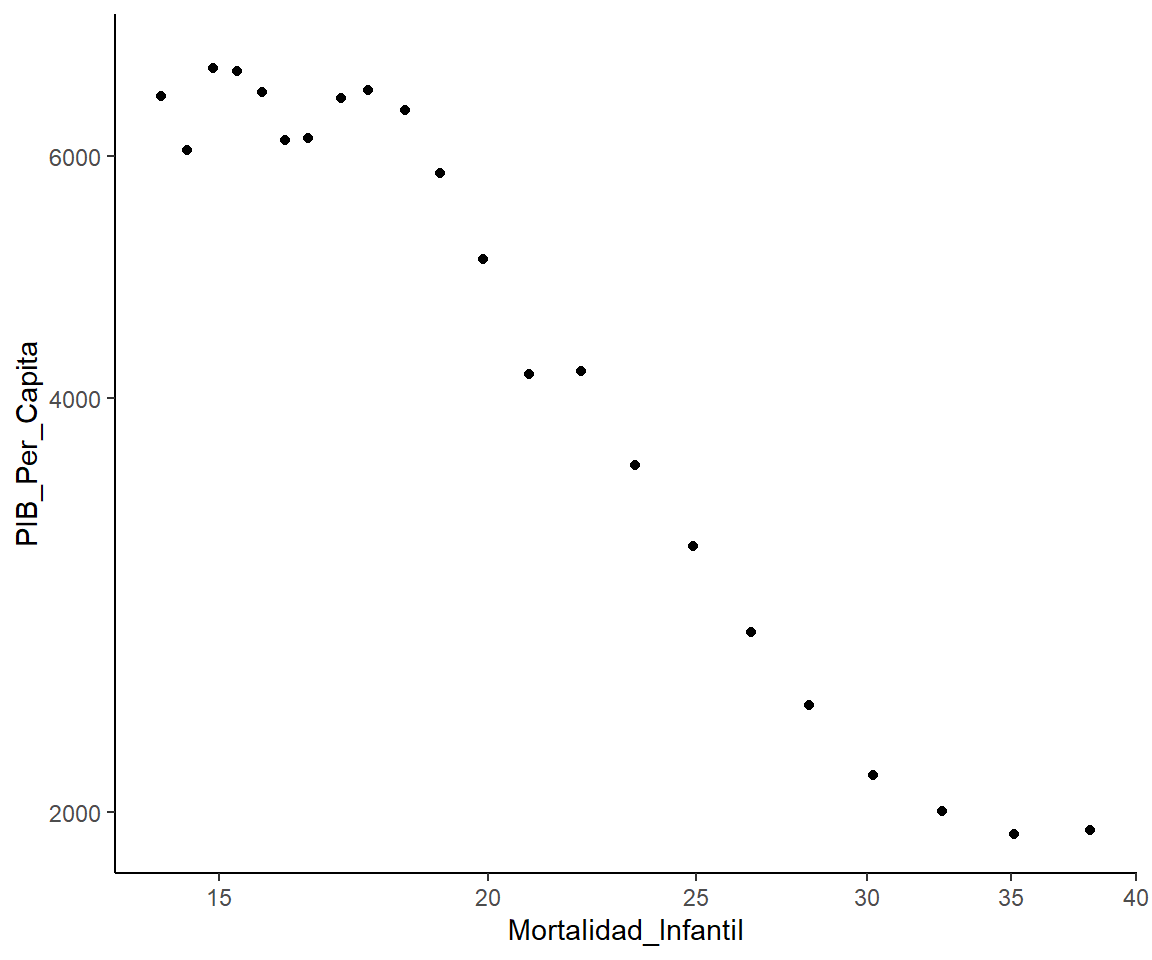
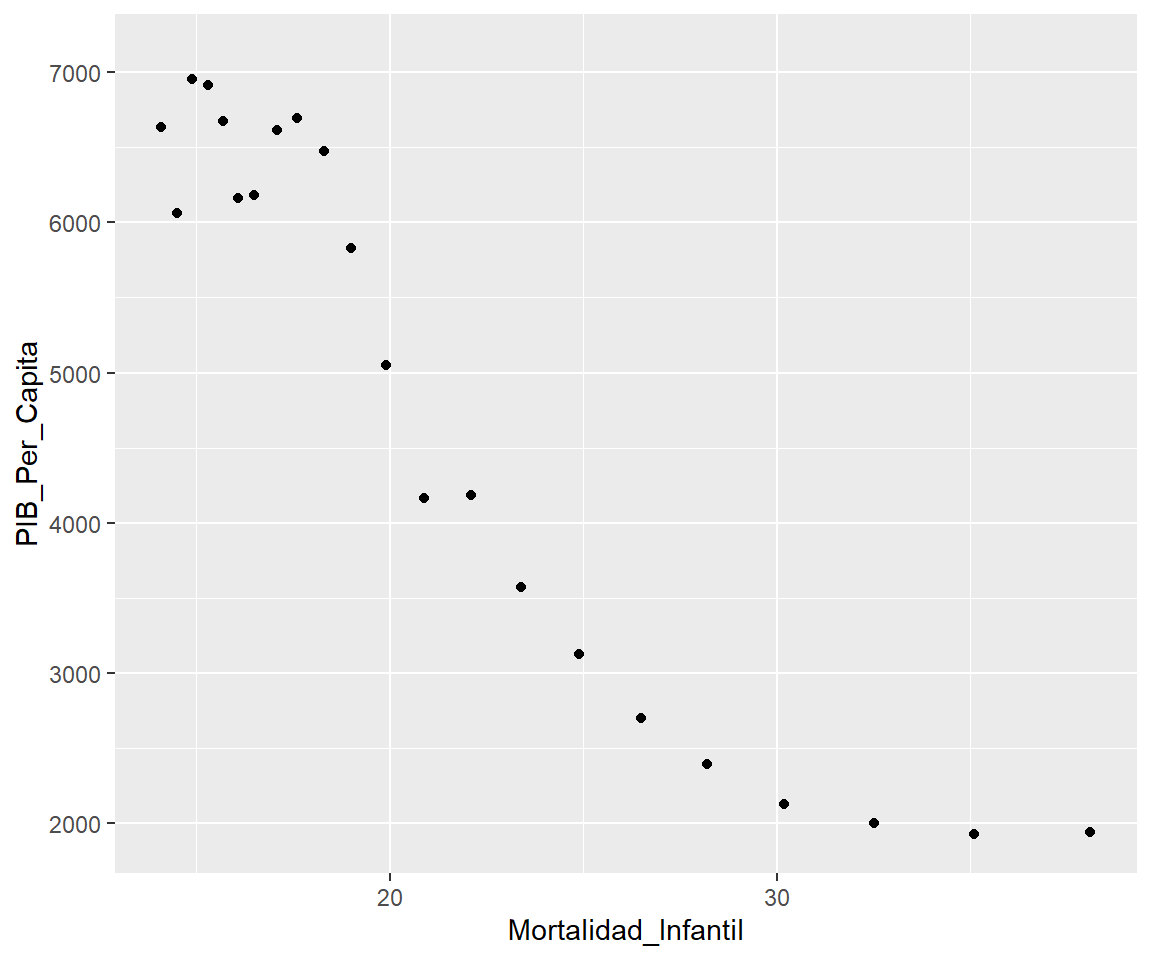
commitchanges6

diff --git a/docs/index.html b/docs/index.html
@@ -407,30 +407,30 @@ Joel Belsasar
 <nav role="doc-toc"> 
 <h2 id="toc-title">Table of contents</h2>
 <ul>
-<li><a href="#/herramientas-para-la-ciencia-de-datos" id="/toc-herramientas-para-la-ciencia-de-datos">Herramientas para la ciencia de datos</a></li>
-<li><a href="#/visualizar-datos" id="/toc-visualizar-datos">Visualizar… datos</a></li>
-<li><a href="#/entonces-por-qué-usar-r" id="/toc-entonces-por-qué-usar-r">Entonces, ¿por qué usar R?</a></li>
-<li><a href="#/ggplot" id="/toc-ggplot"><code>ggplot()</code></a></li>
+<li><a href="#/herramientas-para-la-ciencia-de-datos" id="/toc-herramientas-para-la-ciencia-de-datos"><b style="color : #E18B2A;">Herramientas para la ciencia de datos</b></a></li>
+<li><a href="#/visualizar-datos" id="/toc-visualizar-datos"><b style="color : #E18B2A;">Visualizar… datos</b></a></li>
+<li><a href="#/entonces-por-qué-usar-r" id="/toc-entonces-por-qué-usar-r"><b style="color : #E18B2A;">Entonces, ¿por qué usar R?</b></a></li>
+<li><a href="#/ggplot" id="/toc-ggplot"><b style="color : #E18B2A;"><code>ggplot()</code></b></a></li>
 <li><a href="#/la-gramática-en-capas-de-gráficos-de-wickham-2009" id="/toc-la-gramática-en-capas-de-gráficos-de-wickham-2009">La gramática en capas de gráficos de Wickham (2009)</a></li>
-<li><a href="#/las-capas-básicas" id="/toc-las-capas-básicas">Las capas básicas</a></li>
-<li><a href="#/dataset-worldbank" id="/toc-dataset-worldbank">Dataset: <code>WorldBank</code></a></li>
-<li><a href="#/capa-data" id="/toc-capa-data">Capa: data</a></li>
-<li><a href="#/capa-aesthetics" id="/toc-capa-aesthetics">Capa: Aesthetics</a></li>
-<li><a href="#/capa-geométrica-geom_" id="/toc-capa-geométrica-geom_">Capa: Geométrica <code>geom_</code></a></li>
-<li><a href="#/capas-coordinates-and-themes" id="/toc-capas-coordinates-and-themes">Capas: Coordinates, and themes</a></li>
-<li><a href="#/en-suma-en-un-solo-fragmento-de-código" id="/toc-en-suma-en-un-solo-fragmento-de-código">En suma, en un solo fragmento de código:</a></li>
-<li><a href="#/en-suma-en-un-solo-fragmento-de-código-1" id="/toc-en-suma-en-un-solo-fragmento-de-código-1">En suma, en un solo fragmento de código:</a></li>
+<li><a href="#/las-capas-básicas" id="/toc-las-capas-básicas"><b style="color : #E18B2A;">Las capas básicas</b></a></li>
+<li><a href="#/dataset-worldbank" id="/toc-dataset-worldbank"><b style="color : #E18B2A;">Dataset: <code>WorldBank</code></b></a></li>
+<li><a href="#/capa-data" id="/toc-capa-data"><b style="color : #E18B2A;">Capa: data</b></a></li>
+<li><a href="#/capa-aesthetics" id="/toc-capa-aesthetics"><b style="color : #E18B2A;">Capa: Aesthetics</b></a></li>
+<li><a href="#/capa-geométrica-geom_" id="/toc-capa-geométrica-geom_"><b style="color : #E18B2A;">Capa: Geométrica <code>geom_</code></b></a></li>
+<li><a href="#/capas-coordinates-and-themes" id="/toc-capas-coordinates-and-themes"><b style="color : #E18B2A;">Capas: Coordinates, and themes</b></a></li>
+<li><a href="#/en-suma-en-un-solo-fragmento-de-código" id="/toc-en-suma-en-un-solo-fragmento-de-código"><b style="color : #E18B2A;">En suma, en un solo fragmento de código:</b></a></li>
+<li><a href="#/en-suma-en-un-solo-fragmento-de-código-1" id="/toc-en-suma-en-un-solo-fragmento-de-código-1"><b style="color : #E18B2A;">En suma, en un solo fragmento de código: </b></a></li>
 <li><a href="#/bibliografía" id="/toc-bibliografía">Bibliografía:</a></li>
 <li><a href="#/más-recursos" id="/toc-más-recursos">Más recursos:</a></li>
 </ul>
 </nav>
 </section>
 <section id="herramientas-para-la-ciencia-de-datos" class="slide level2">
-<h2>Herramientas para la ciencia de datos</h2>
+<h2><b style="color : #E18B2A;">Herramientas para la ciencia de datos</b></h2>
 
 <img data-src="./diagrams/whole-game.png" alt="A diagram displaying the data science cycle: Import -> Tidy -> Understand  (which has the phases Transform -> Visualize -> Model in a cycle) -> Communicate. Surrounding all of these is Program Import, Tidy, Transform, and Visualize is highlighted." width="535" class="r-stretch quarto-figure-center"><p class="caption">Figure&nbsp;1: <a href="https://r4ds.hadley.nz/whole-game#fig-ds-whole-game">Whole game: Visualización</a></p></section>
 <section id="visualizar-datos" class="slide level2">
-<h2>Visualizar… datos</h2>
+<h2><b style="color : #E18B2A;">Visualizar… datos</b></h2>
 <p>Una visualización de datos efectiva brinda a los usuarios medios intuitivos para…</p>
 <ul>
 <li><p>explorar y analizar datos de manera interactiva, permitiéndoles</p></li>
@@ -444,7 +444,7 @@ Joel Belsasar
 </ul>
 </section>
 <section id="entonces-por-qué-usar-r" class="slide level2">
-<h2>Entonces, ¿por qué usar R?</h2>
+<h2><b style="color : #E18B2A;">Entonces, ¿por qué usar R?</b></h2>
 <p><strong>Reproducibilidad</strong></p>
 <ul>
 <li>Puedes anotar el scrpit, agregar información extra como títulos, etiquetas y leyendas, y mantener el código de todas las versiones de tus gráficos para saber siempre cómo se crearon.</li>
@@ -459,19 +459,20 @@ Joel Belsasar
 </ul>
 </section>
 <section id="ggplot" class="slide level2">
-<h2><code>ggplot()</code></h2>
+<h2><b style="color : #E18B2A;"><code>ggplot()</code></b></h2>
 <ul>
 <li><p>La lógica que propone ggplot una de los paquetes de la familia tidyverse() es la estratificación</p></li>
 <li><p>Si existe un consenso en R, es que ggplot es la librería para graficar.</p></li>
 <li><p>En ggplot una capa se encarga de renderizar cada uno de los elementos visuales. Las capas forman una gramática o un conjunto de reglas mediante las cuales R creará los artefactos visuales.</p></li>
 </ul>
-</section>
+
+<img data-src="./diagrams/ggplot2.png" width="896" class="r-stretch quarto-figure-center"></section>
 <section id="la-gramática-en-capas-de-gráficos-de-wickham-2009" class="slide level2">
 <h2>La gramática en capas de gráficos de <a href="https://vita.had.co.nz/papers/layered-grammar.pdf">Wickham (2009)</a></h2>
 
 <img data-src="./diagrams/gglayers.png" alt="A diagram displaying the data science cycle" width="683" class="r-stretch quarto-figure-center"><p class="caption">Figure&nbsp;2: Adaptado en <a href="https://github.com/QCBSRworkshops/workshop03">Introduction to data visualisation</a></p></section>
 <section id="las-capas-básicas" class="slide level2">
-<h2>Las capas básicas</h2>
+<h2><b style="color : #E18B2A;">Las capas básicas</b></h2>
 <p><strong>1. La data:</strong></p>
 <ul>
 <li>Los datos que queremos representar en la grafica deben estar ordenados, es decir, cada fila debe representar una observación y cada columna debe representar una variable.</li>
@@ -484,62 +485,75 @@ Joel Belsasar
 <span id="cb1-2"><a href="#cb1-2"></a>geom_(mapping = aes(x, y), ...) + ...</span></code><button title="Copy to Clipboard" class="code-copy-button"><i class="bi"></i></button></pre></div>
 </section>
 <section id="dataset-worldbank" class="slide level2">
-<h2>Dataset: <code>WorldBank</code></h2>
+<h2><b style="color : #E18B2A;">Dataset: <code>WorldBank</code></b></h2>
 <ul>
 <li><p>Utilicemos los datos económicos y sociales de diferentes países proporcionados por el Banco Mundial.</p></li>
 <li><p>Preprocesamiento de los datos:</p></li>
 </ul>
+<div class="sourceCode" id="cb2"><pre class="sourceCode numberSource markdown number-lines code-with-copy"><code class="sourceCode markdown"><span id="cb2-1"><a href="#cb2-1"></a>pacman::p_load(WDI, # Data World Bank</span>
+<span id="cb2-2"><a href="#cb2-2"></a>               ggplot2</span>
+<span id="cb2-3"><a href="#cb2-3"></a>               )</span>
+<span id="cb2-4"><a href="#cb2-4"></a><span class="fu"># Buscar indicadores relacionados con el PIB per cápita:</span></span>
+<span id="cb2-5"><a href="#cb2-5"></a>indicadores &lt;- WDIsearch("GDP per capita")</span>
+<span id="cb2-6"><a href="#cb2-6"></a></span>
+<span id="cb2-7"><a href="#cb2-7"></a>dataf &lt;- WDI(country = "PE", indicator = c("NY.GDP.PCAP.CD", # PBI</span>
+<span id="cb2-8"><a href="#cb2-8"></a>                                             "SH.DYN.MORT"), # Mortalidad</span>
+<span id="cb2-9"><a href="#cb2-9"></a>             start = 2000, end = 2022)</span>
+<span id="cb2-10"><a href="#cb2-10"></a>dataf &lt;- data.frame(dataf)</span>
+<span id="cb2-11"><a href="#cb2-11"></a></span>
+<span id="cb2-12"><a href="#cb2-12"></a><span class="fu"># Renombrar las variables del dataframe</span></span>
+<span id="cb2-13"><a href="#cb2-13"></a>colnames(dataf)<span class="co">[</span><span class="ot">5:6</span><span class="co">]</span> &lt;- c("PIB_Per_Capita", "Mortalidad_Infantil")</span></code><button title="Copy to Clipboard" class="code-copy-button"><i class="bi"></i></button></pre></div>
 </section>
 <section id="capa-data" class="slide level2">
-<h2>Capa: data</h2>
-<div class="sourceCode" id="cb2"><pre class="sourceCode numberSource markdown number-lines code-with-copy"><code class="sourceCode markdown"><span id="cb2-1"><a href="#cb2-1"></a>ggplot(data = dataf)</span></code><button title="Copy to Clipboard" class="code-copy-button"><i class="bi"></i></button></pre></div>
+<h2><b style="color : #E18B2A;">Capa: data</b></h2>
+<div class="sourceCode" id="cb3"><pre class="sourceCode numberSource markdown number-lines code-with-copy"><code class="sourceCode markdown"><span id="cb3-1"><a href="#cb3-1"></a>ggplot(data = dataf)</span></code><button title="Copy to Clipboard" class="code-copy-button"><i class="bi"></i></button></pre></div>
 
-<img data-src="index_files/figure-revealjs/unnamed-chunk-4-1.png" width="960" class="r-stretch"></section>
+<img data-src="index_files/figure-revealjs/unnamed-chunk-5-1.png" width="960" class="r-stretch"></section>
 <section id="capa-aesthetics" class="slide level2">
-<h2>Capa: Aesthetics</h2>
-<div class="sourceCode" id="cb3"><pre class="sourceCode numberSource markdown number-lines code-with-copy"><code class="sourceCode markdown"><span id="cb3-1"><a href="#cb3-1"></a>ggplot(data = dataf, </span>
-<span id="cb3-2"><a href="#cb3-2"></a>       mapping = aes(x = Mortalidad_Infantil, </span>
-<span id="cb3-3"><a href="#cb3-3"></a>           y = PIB_Per_Capita)) </span></code><button title="Copy to Clipboard" class="code-copy-button"><i class="bi"></i></button></pre></div>
-
-<img data-src="index_files/figure-revealjs/unnamed-chunk-5-1.png" width="576" class="r-stretch"></section>
-<section id="capa-geométrica-geom_" class="slide level2">
-<h2>Capa: Geométrica <code>geom_</code></h2>
+<h2><b style="color : #E18B2A;">Capa: Aesthetics</b></h2>
 <div class="sourceCode" id="cb4"><pre class="sourceCode numberSource markdown number-lines code-with-copy"><code class="sourceCode markdown"><span id="cb4-1"><a href="#cb4-1"></a>ggplot(data = dataf, </span>
 <span id="cb4-2"><a href="#cb4-2"></a>       mapping = aes(x = Mortalidad_Infantil, </span>
-<span id="cb4-3"><a href="#cb4-3"></a>           y = PIB_Per_Capita))  + # Para añadir la siguiente capa debemos utilizar el signo más (<span class="in">`+`</span>)</span>
-<span id="cb4-4"><a href="#cb4-4"></a>  geom_point()</span>
-<span id="cb4-5"><a href="#cb4-5"></a>  </span></code><button title="Copy to Clipboard" class="code-copy-button"><i class="bi"></i></button></pre></div>
+<span id="cb4-3"><a href="#cb4-3"></a>           y = PIB_Per_Capita)) </span></code><button title="Copy to Clipboard" class="code-copy-button"><i class="bi"></i></button></pre></div>
 
-<img data-src="index_files/figure-revealjs/unnamed-chunk-6-1.png" width="576" class="r-stretch"></section>
-<section id="capas-coordinates-and-themes" class="slide level2">
-<h2>Capas: Coordinates, and themes</h2>
+<img data-src="index_files/figure-revealjs/unnamed-chunk-6-1.png" width="576" class="r-stretch quarto-figure-center"></section>
+<section id="capa-geométrica-geom_" class="slide level2">
+<h2><b style="color : #E18B2A;">Capa: Geométrica <code>geom_</code></b></h2>
 <div class="sourceCode" id="cb5"><pre class="sourceCode numberSource markdown number-lines code-with-copy"><code class="sourceCode markdown"><span id="cb5-1"><a href="#cb5-1"></a>ggplot(data = dataf, </span>
-<span id="cb5-2"><a href="#cb5-2"></a>       mapping = aes(x = Mortalidad_Infantil, y = PIB_Per_Capita)) + </span>
-<span id="cb5-3"><a href="#cb5-3"></a>       geom_point() + </span>
-<span id="cb5-4"><a href="#cb5-4"></a>       coord_trans(x = "log10", y = "log10") + </span>
-<span id="cb5-5"><a href="#cb5-5"></a>       theme_classic()</span></code><button title="Copy to Clipboard" class="code-copy-button"><i class="bi"></i></button></pre></div>
+<span id="cb5-2"><a href="#cb5-2"></a>       mapping = aes(x = Mortalidad_Infantil, </span>
+<span id="cb5-3"><a href="#cb5-3"></a>           y = PIB_Per_Capita))  + # Para añadir la siguiente capa debemos utilizar el signo más (<span class="in">`+`</span>)</span>
+<span id="cb5-4"><a href="#cb5-4"></a>  geom_point()</span>
+<span id="cb5-5"><a href="#cb5-5"></a>  </span></code><button title="Copy to Clipboard" class="code-copy-button"><i class="bi"></i></button></pre></div>
 
-<img data-src="index_files/figure-revealjs/unnamed-chunk-7-1.png" width="576" class="r-stretch"></section>
+<img data-src="index_files/figure-revealjs/unnamed-chunk-7-1.png" width="576" class="r-stretch quarto-figure-center"></section>
+<section id="capas-coordinates-and-themes" class="slide level2">
+<h2><b style="color : #E18B2A;">Capas: Coordinates, and themes</b></h2>
+<div class="sourceCode" id="cb6"><pre class="sourceCode numberSource markdown number-lines code-with-copy"><code class="sourceCode markdown"><span id="cb6-1"><a href="#cb6-1"></a>ggplot(data = dataf, </span>
+<span id="cb6-2"><a href="#cb6-2"></a>       mapping = aes(x = Mortalidad_Infantil, y = PIB_Per_Capita)) + </span>
+<span id="cb6-3"><a href="#cb6-3"></a>       geom_point() + </span>
+<span id="cb6-4"><a href="#cb6-4"></a>       coord_trans(x = "log10", y = "log10") + </span>
+<span id="cb6-5"><a href="#cb6-5"></a>       theme_classic()</span></code><button title="Copy to Clipboard" class="code-copy-button"><i class="bi"></i></button></pre></div>
+
+<img data-src="index_files/figure-revealjs/unnamed-chunk-8-1.png" width="576" class="r-stretch quarto-figure-center"></section>
 <section id="en-suma-en-un-solo-fragmento-de-código" class="slide level2">
-<h2>En suma, en un solo fragmento de código:</h2>
-<div class="sourceCode" id="cb6"><pre class="sourceCode numberSource markdown number-lines code-with-copy"><code class="sourceCode markdown"><span id="cb6-1"><a href="#cb6-1"></a><span class="fu"># Crear la gráfica utilizando ggplot2</span></span>
-<span id="cb6-2"><a href="#cb6-2"></a>ggplot(dataf,                         # Data</span>
-<span id="cb6-3"><a href="#cb6-3"></a>       aes(x = Mortalidad_Infantil,   # Your X-value</span>
-<span id="cb6-4"><a href="#cb6-4"></a>           y = PIB_Per_Capita,        # Your Y-value</span>
-<span id="cb6-5"><a href="#cb6-5"></a>           color = "")                # Podemos pintar con otra variable</span>
-<span id="cb6-6"><a href="#cb6-6"></a>       ) +                            # Aesthetics</span>
-<span id="cb6-7"><a href="#cb6-7"></a>  geom_point(size = 5, alpha = 0.8) + # Point</span>
-<span id="cb6-8"><a href="#cb6-8"></a>  geom_smooth(method = "lm") +        # Linear regression</span>
-<span id="cb6-9"><a href="#cb6-9"></a>  labs(title = "Relación entre Tasa de Mortalidad Infantil y PIB per cápita", # Title</span>
-<span id="cb6-10"><a href="#cb6-10"></a>       x = "Tasa de Mortalidad Infantil", y = "PIB per cápita", col = "") +</span>
-<span id="cb6-11"><a href="#cb6-11"></a>  theme_classic() + # apply a clean theme</span>
-<span id="cb6-12"><a href="#cb6-12"></a>  theme(title = element_text(size = 18, face = "bold"),</span>
-<span id="cb6-13"><a href="#cb6-13"></a>      text = element_text(size = 16))</span></code><button title="Copy to Clipboard" class="code-copy-button"><i class="bi"></i></button></pre></div>
+<h2><b style="color : #E18B2A;">En suma, en un solo fragmento de código:</b></h2>
+<div class="sourceCode" id="cb7"><pre class="sourceCode numberSource markdown number-lines code-with-copy"><code class="sourceCode markdown"><span id="cb7-1"><a href="#cb7-1"></a><span class="fu"># Crear la gráfica utilizando ggplot2</span></span>
+<span id="cb7-2"><a href="#cb7-2"></a>ggplot(dataf,                         # Data</span>
+<span id="cb7-3"><a href="#cb7-3"></a>       aes(x = Mortalidad_Infantil,   # Your X-value</span>
+<span id="cb7-4"><a href="#cb7-4"></a>           y = PIB_Per_Capita,        # Your Y-value</span>
+<span id="cb7-5"><a href="#cb7-5"></a>           color = "")                # Podemos pintar con otra variable</span>
+<span id="cb7-6"><a href="#cb7-6"></a>       ) +                            # Aesthetics</span>
+<span id="cb7-7"><a href="#cb7-7"></a>  geom_point(size = 5, alpha = 0.8) + # Point</span>
+<span id="cb7-8"><a href="#cb7-8"></a>  geom_smooth(method = "lm") +        # Linear regression</span>
+<span id="cb7-9"><a href="#cb7-9"></a>  labs(title = "Relación entre Tasa de Mortalidad Infantil y PIB per cápita", # Title</span>
+<span id="cb7-10"><a href="#cb7-10"></a>       x = "Tasa de Mortalidad Infantil", y = "PIB per cápita", col = "") +</span>
+<span id="cb7-11"><a href="#cb7-11"></a>  theme_classic() + # apply a clean theme</span>
+<span id="cb7-12"><a href="#cb7-12"></a>  theme(title = element_text(size = 18, face = "bold"),</span>
+<span id="cb7-13"><a href="#cb7-13"></a>      text = element_text(size = 16))</span></code><button title="Copy to Clipboard" class="code-copy-button"><i class="bi"></i></button></pre></div>
 </section>
 <section id="en-suma-en-un-solo-fragmento-de-código-1" class="slide level2">
-<h2>En suma, en un solo fragmento de código:</h2>
+<h2><b style="color : #E18B2A;">En suma, en un solo fragmento de código: </b></h2>
 
-<img data-src="index_files/figure-revealjs/unnamed-chunk-8-1.png" width="864" class="r-stretch"></section>
+<img data-src="index_files/figure-revealjs/unnamed-chunk-9-1.png" width="864" class="r-stretch quarto-figure-center"></section>
 <section id="bibliografía" class="slide level2">
 <h2>Bibliografía:</h2>
 <p>Wickham, H., Navarro, D., &amp; Lin, T. (2009). <em>ggplot2. Elegant Graphics for Data Analysis </em> (3ª ed.). Springer. <a href="https://ggplot2-book.org/">https://ggplot2-book.org/</a></p>
